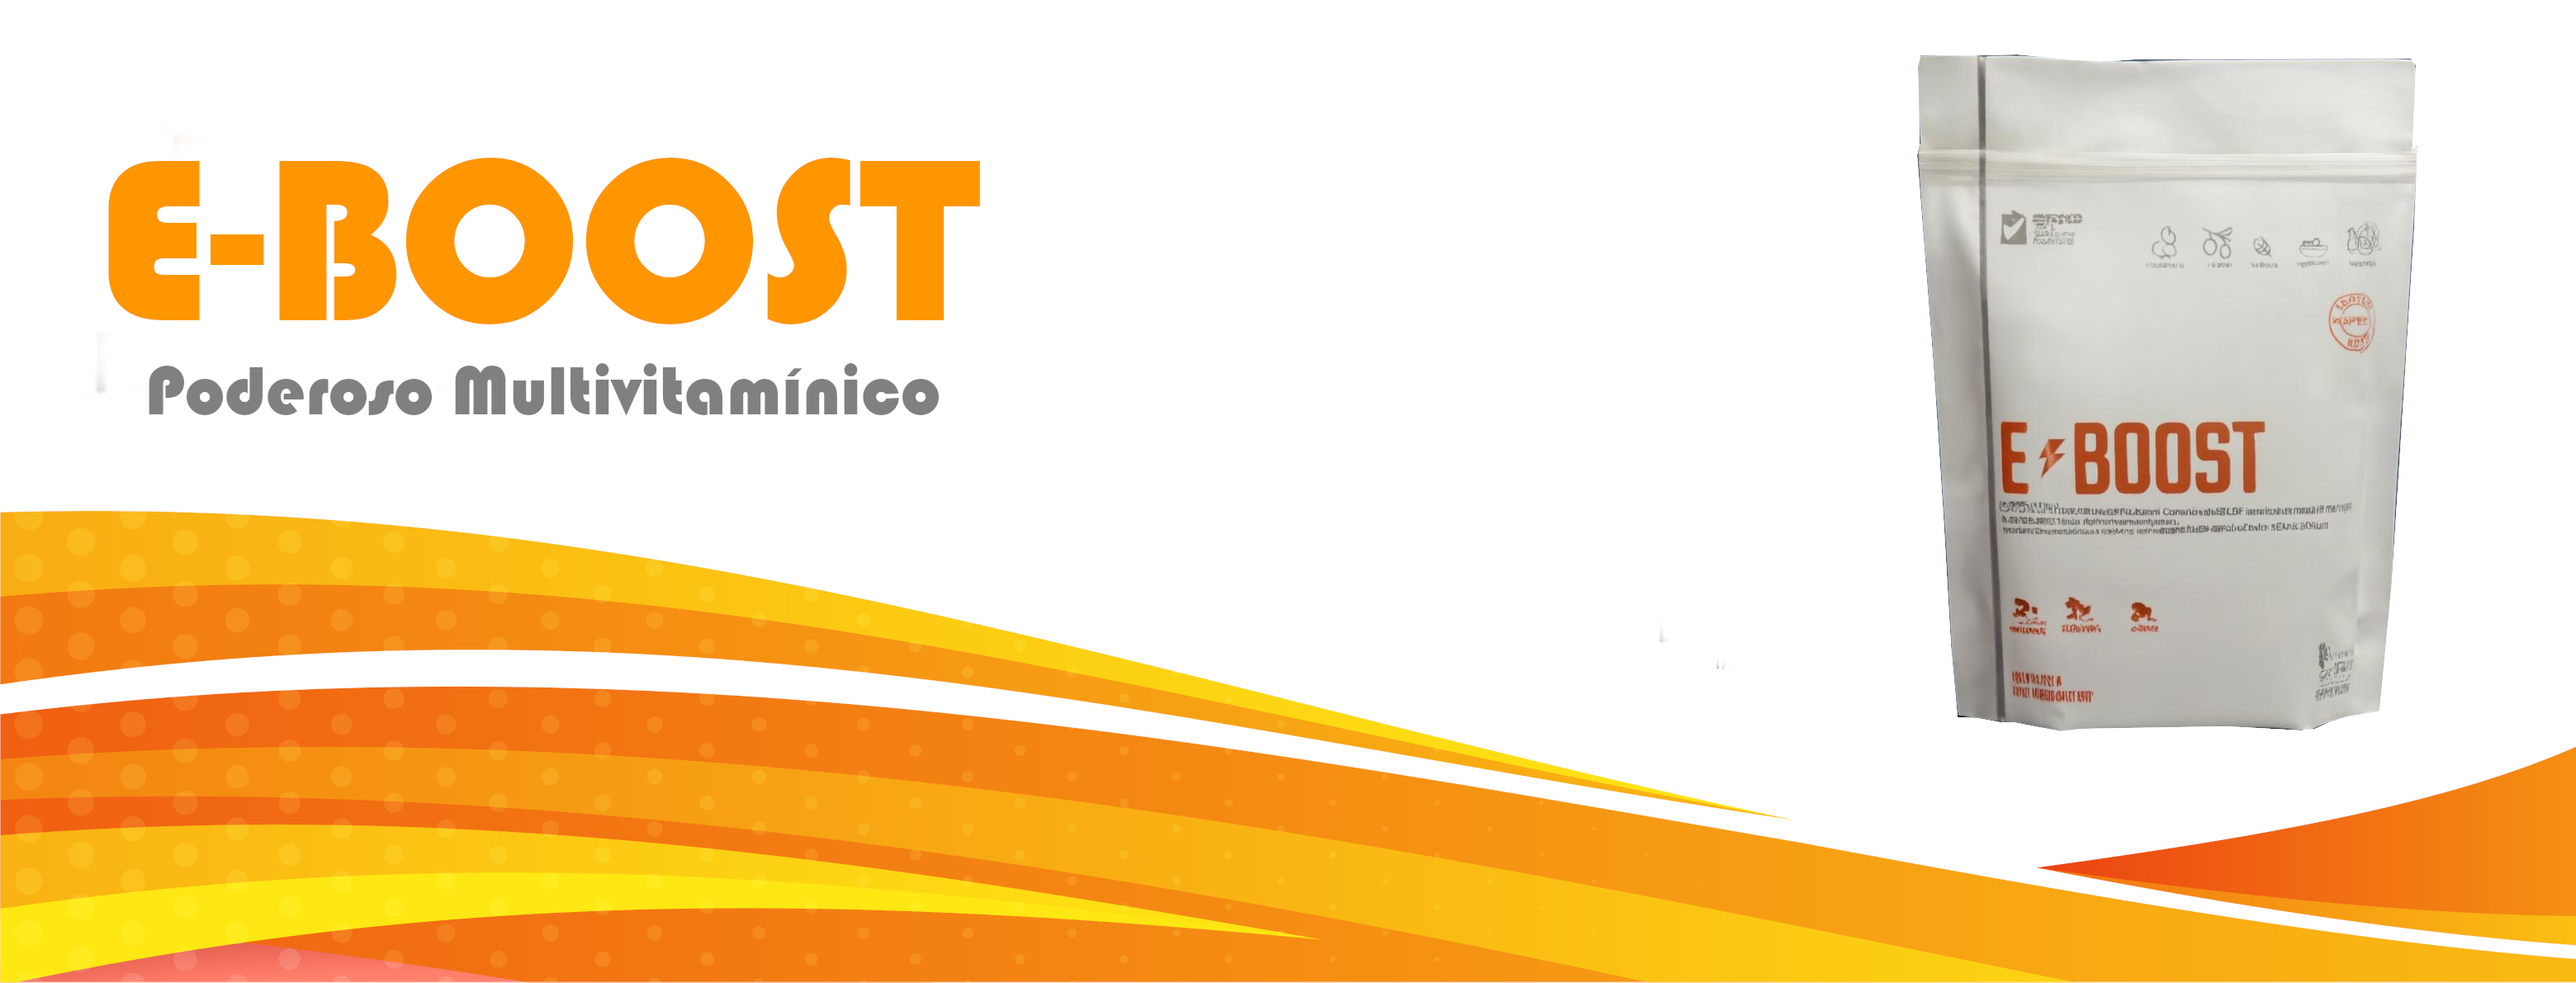
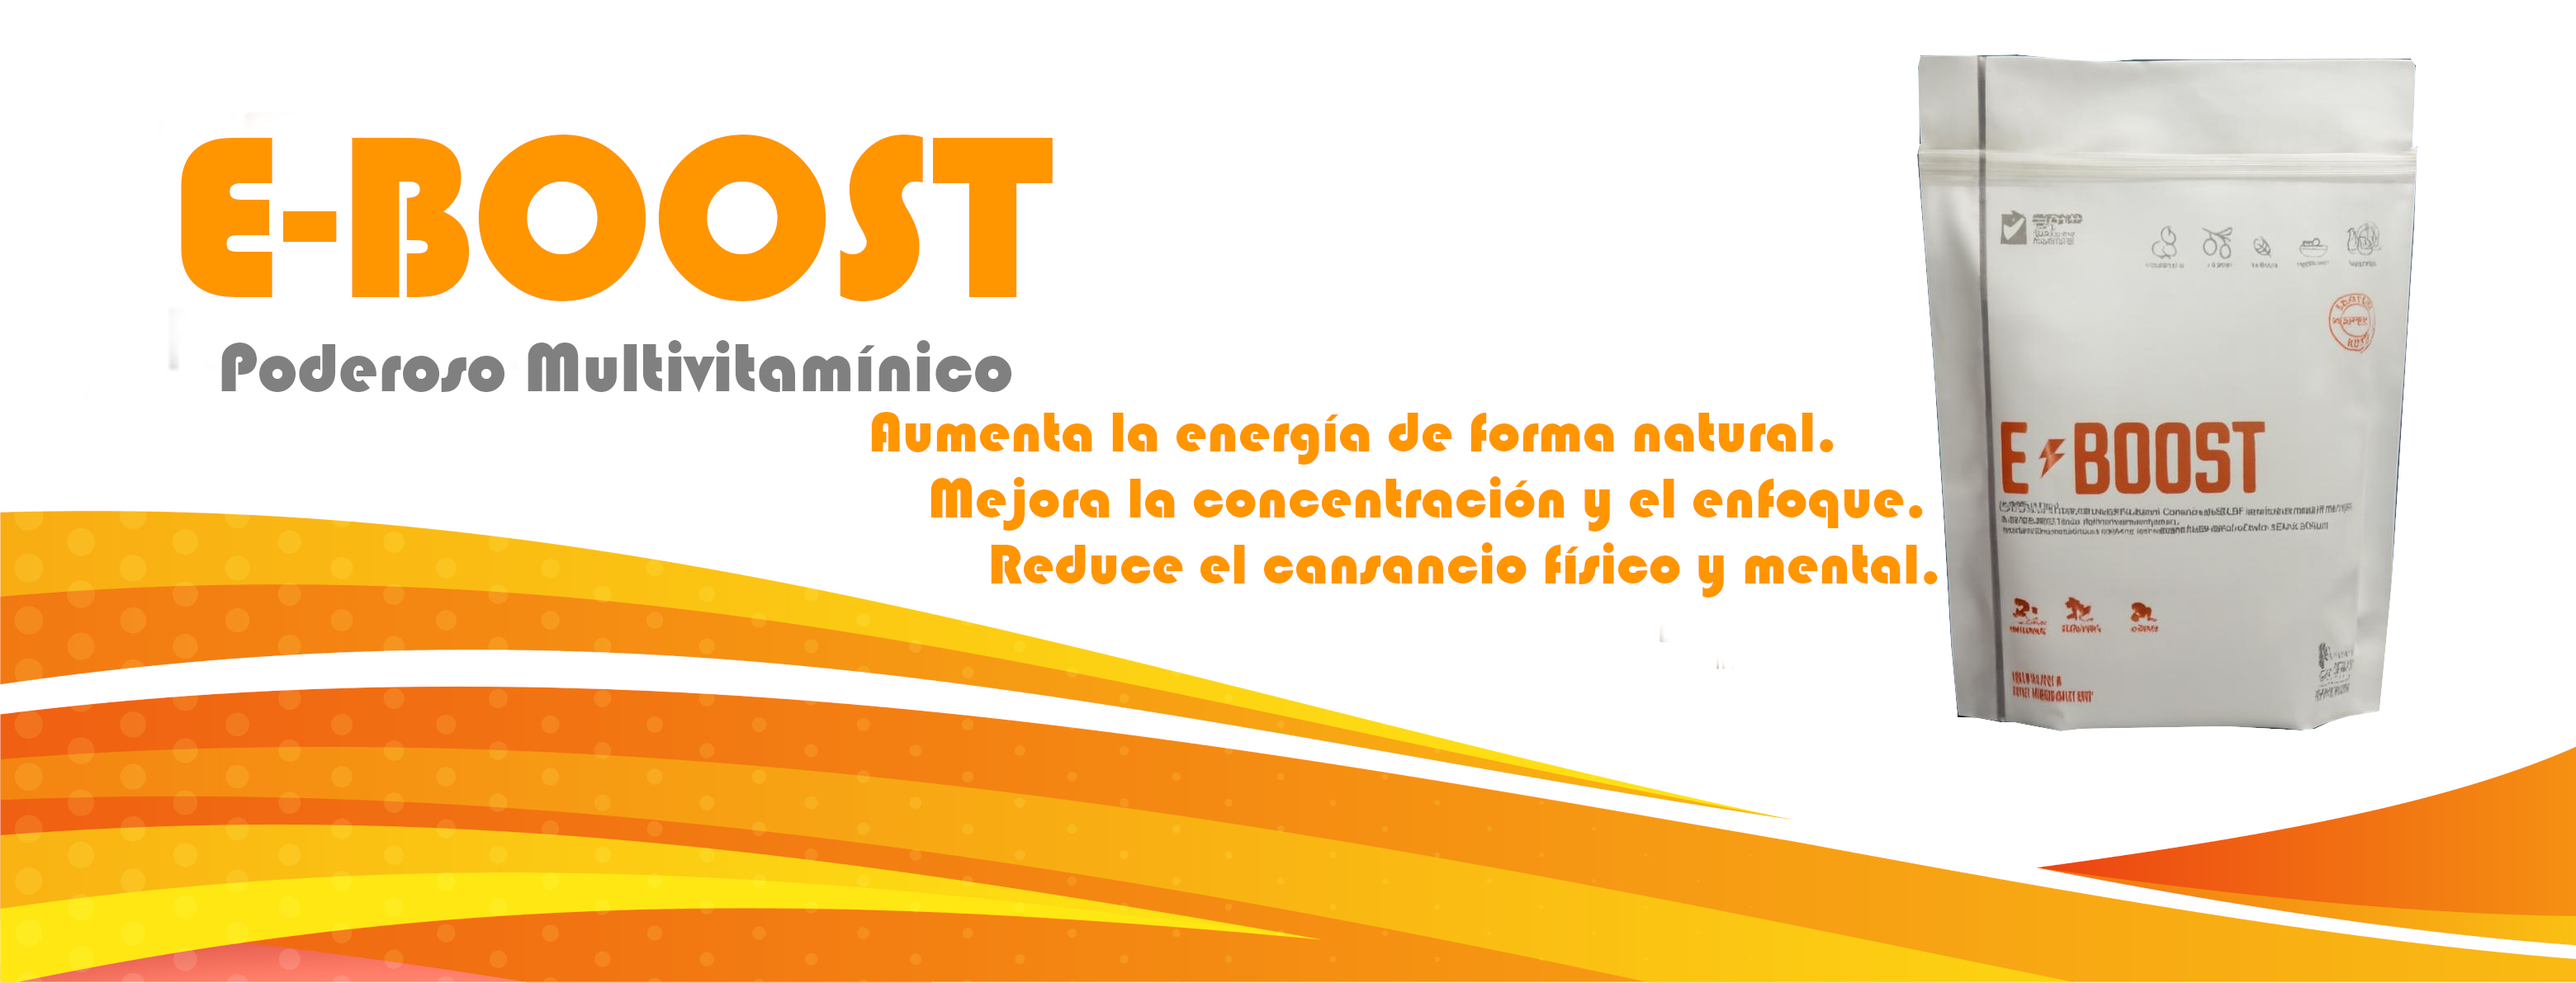
promos y textos aumentados

Changed region(s): [[0.0311, 0.1243, 0.7462, 0.6213]]

diff --git a/productos.html b/productos.html
@@ -66,6 +66,29 @@
   </div>
 </nav>
 
+<!-- carrusel promo -->
+ <div id="carouselpromo" class="carousel slide carousel-dark" data-bs-ride="carousel">
+  <div class="carousel-inner">
+    <div class="carousel-item active">
+      <img src="./assets/images/promociones.jpg" class="d-block w-100" alt="promociones">
+    </div>
+    <div class="carousel-item">
+      <img src="./assets/images/renovapromo.jpg" class="d-block w-100" alt="renova-promo">
+    </div>
+    <div class="carousel-item">
+      <img src="./assets/images/eboostpromo.jpg" class="d-block w-100" alt="eboost-promo">
+    </div>
+  </div>
+  <button class="carousel-control-prev" type="button" data-bs-target="#carouselpromo" data-bs-slide="prev">
+    <span class="carousel-control-prev-icon" aria-hidden="true"></span>
+    <span class="visually-hidden">Previous</span>
+  </button>
+  <button class="carousel-control-next" type="button" data-bs-target="#carouselpromo" data-bs-slide="next">
+    <span class="carousel-control-next-icon" aria-hidden="true"></span>
+    <span class="visually-hidden">Next</span>
+  </button>
+</div>
+
 <!-- productos eboost -->
  <article class="prod-title">
     <h2>Conoce nuestros productos</h2>
@@ -76,7 +99,7 @@
     <div class="prod-first">
     <img class="prod" src="./assets/images/eboostmod.jpeg" alt="eboost">
     <div class="prod-p">
-    <p><span class="eboost-name">E-BOOST</span> te ayuda a reducir la sensación de fatiga, cansancio y burnout. Además, favorece el incremento del enfoque y la concentración para superar tu rutina diaria. E-BOOST , una bebida especialmente diseñada para activar tu energía.</p>
+    <p><span class="eboost-name">E-BOOST</span> es un suplemento energético 100% natural, elaborado con Maca Negra, Guaraná y Té Negro. Su fórmula está diseñada para aumentar tus niveles de energía, mejorar el enfoque mental y ayudarte a rendir más en tu día a día, sin recurrir a estimulantes artificiales.</p>
     </div>
     </div>
     <img class="eboost-prod" src="./assets/images/eboost-text.jpeg" alt="eboost">
@@ -92,7 +115,7 @@
   <div class="prod-first">
   <img class="prod" src="./assets/images/renovapre.jpeg" alt="renova">
   <div class="prod-p">
-  <p>Con <span class="renova-name">RENÖVA+</span>podrás iniciar tu transformación hacia una vida más joven y saludable, beneficiando tu piel, uñas y cabello, todo esto mientras reduces arrugas con la combinación más efectiva.</p>
+  <p>Con <span class="renova-name">RENÖVA+</span>es un suplemento premium formulado con Colágeno Doble Hidrolizado, Biotina, Ácido Pantoténico y Magnesio, diseñado para apoyar la salud de la piel, las uñas y el cabello, además de contribuir al bienestar general.</p>
   </div>
   </div>
   <img class="eboost-prod" src="./assets/images/renova-text.jpeg" alt="renova" >
